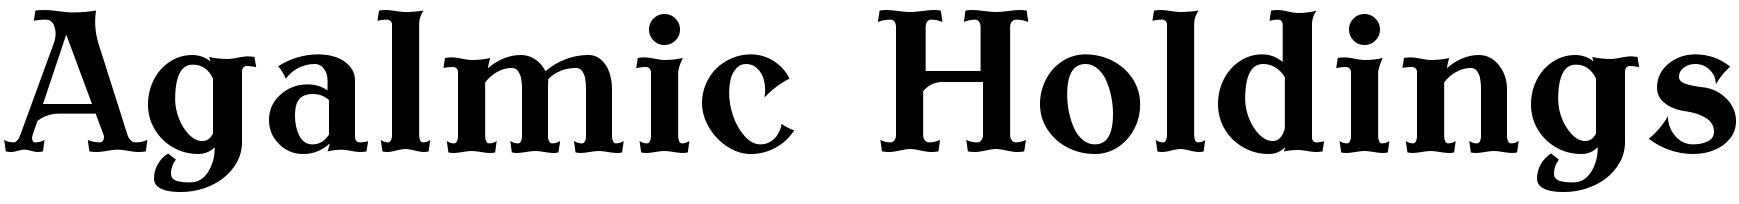
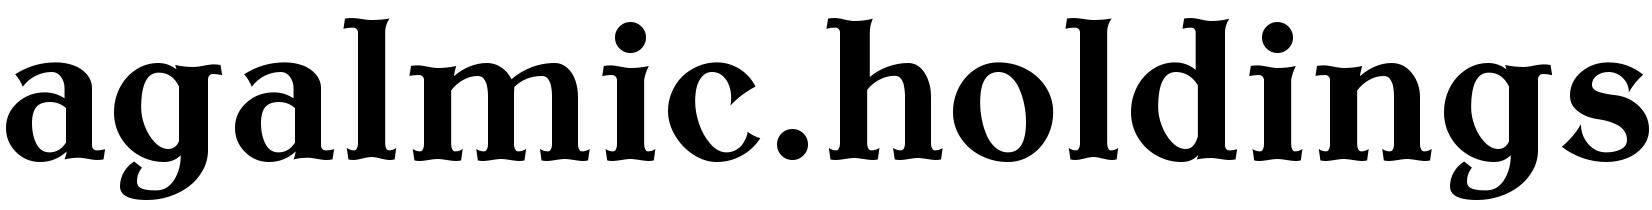
Normalize name

Changed region(s): [[0.0, 0.0294, 1.0, 0.9706], [0.3705, 0.0588, 0.4013, 0.1471]]

diff --git a/index.md b/index.md
@@ -2,7 +2,7 @@
 layout: default
 ---
 
-Agalmic Holdings comprises a variety of organizations and intellectual properties.  These resources are intended to be free *forever*.  In the event of incapacitation, many of the resources move into the public domain, organizations inherited with a clause that specifies that the assets held by that organization remain held with their current license(s).
+agalmic.holdings comprises a variety of organizations and intellectual properties.  These resources are intended to be free *forever*.  In the event of incapacitation, many of the resources move into the public domain, organizations inherited with a clause that specifies that the assets held by that organization remain held with their current license(s).
 
 <div class="home">
 

diff --git a/about.md b/about.md
@@ -4,7 +4,7 @@ title: About
 permalink: /about/
 ---
 
-This is the basic structure of Agalmic Holdings:
+This is the basic structure of agalmic.holdings:
 
 <div class="assets">{% include assets.svg %}</div>
 
